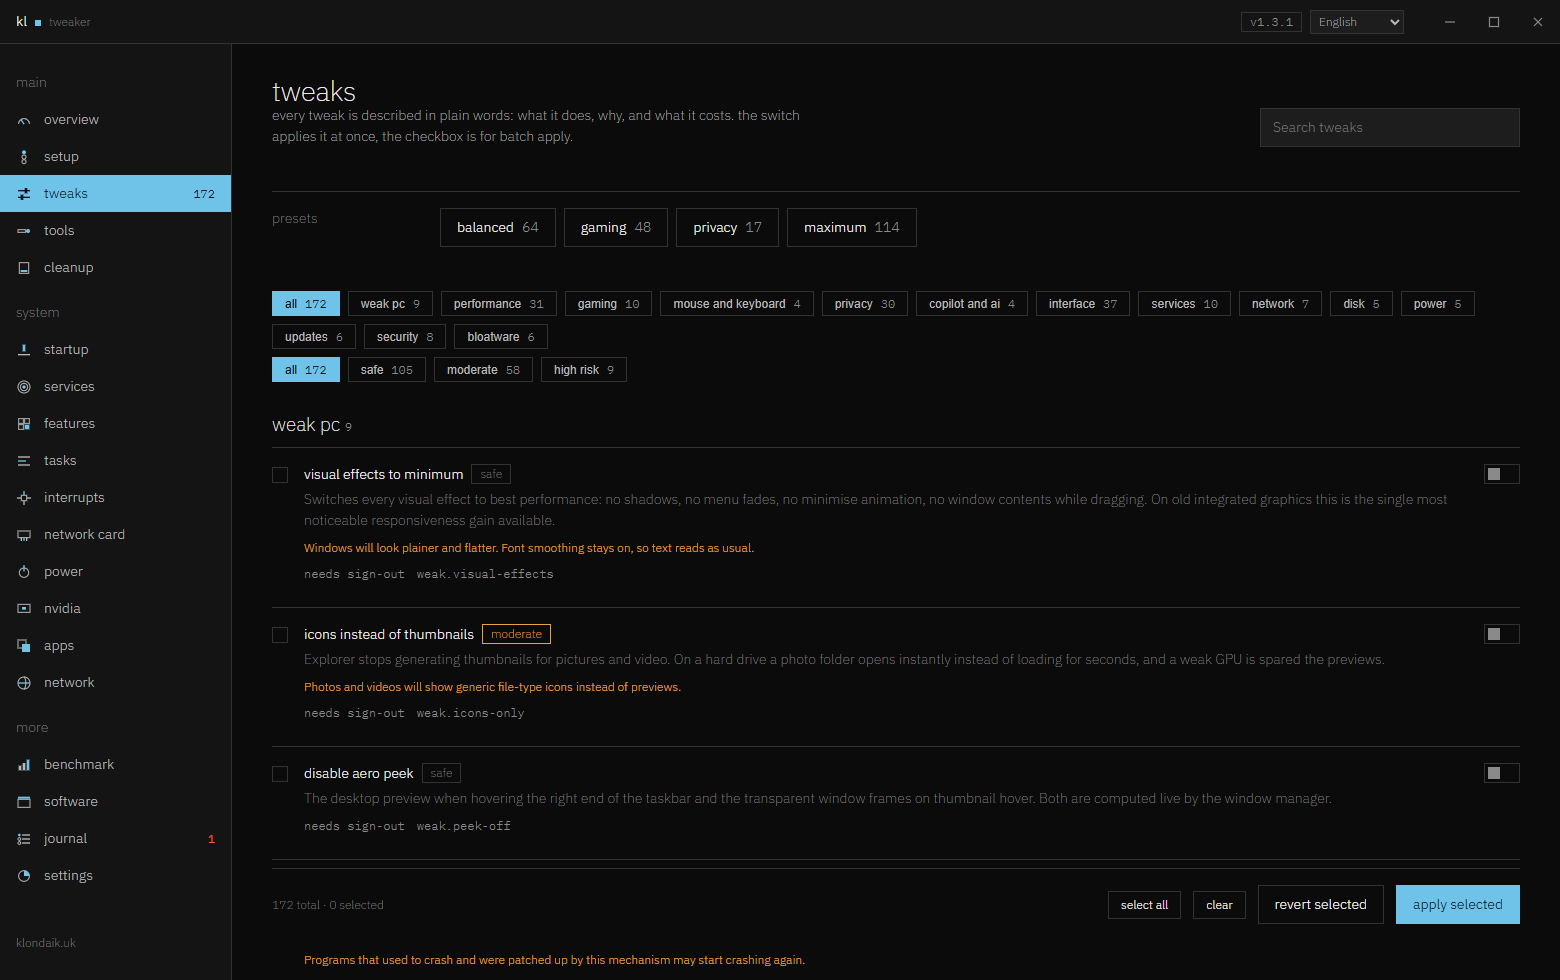
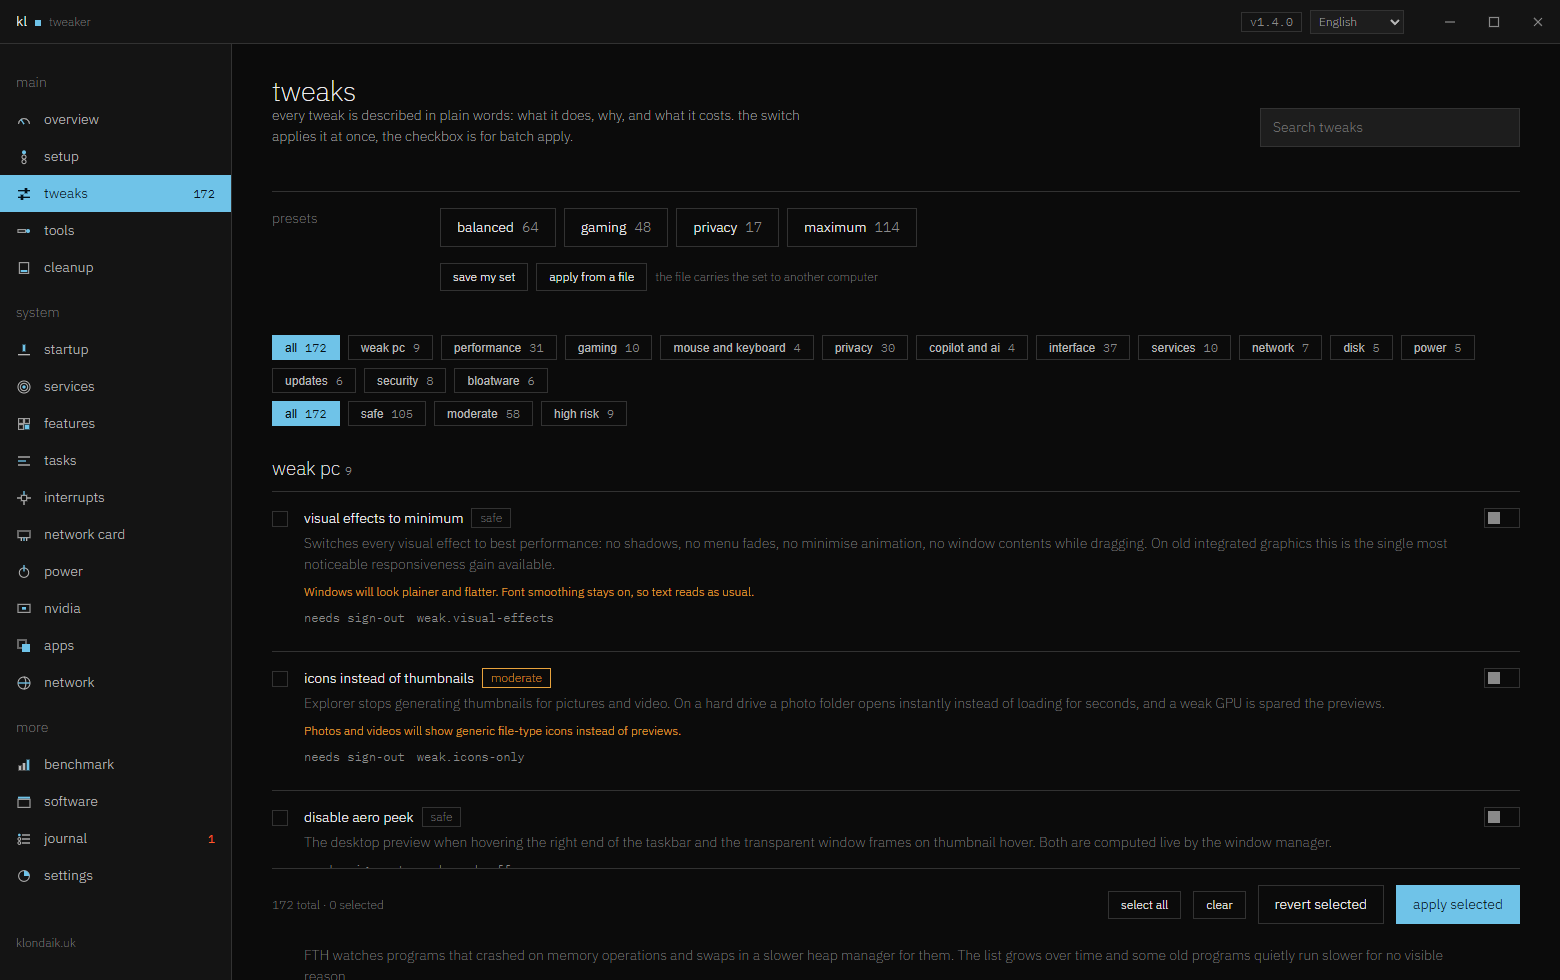
Carry the applied set to another machine in a file
Reinstalling Windows meant walking the catalogue again. The Tweaks tab
now saves everything that is applied and not reverted into a file, and
applies a set back from one through the usual path, tweak by tweak and
through the journal, so every one can still be reverted on its own.

The file holds tweak identifiers and nothing else. What gets written to
the system is decided by the catalogue inside the program, so a file
cannot carry a registry write of its own; one that is not ours, or is
damaged, is refused with a reason. Identifiers the catalogue does not
know are counted and reported rather than dropped in silence.

The set does not carry services, scheduler tasks, Windows features,
power schemes or adapter parameters, and it does not check that the
second machine runs the same Windows build — the build is written into
the file, the decision stays with the reader.

The module test writes a set, reads it back, compares the list tweak by
tweak and then feeds the reader a foreign JSON expecting a refusal. It
refused. 42/42 modules and 29/29 self test on a clean Windows 10.

diff --git a/src/KlondaikTweaker/Assets/wwwroot/js/pages/tweaks.js b/src/KlondaikTweaker/Assets/wwwroot/js/pages/tweaks.js
@@ -32,8 +32,48 @@ export default {
       )
     );
 
-    const presetBox = h('<div class="pane stack"><h2>' + esc(t("tw.presets")) + '</h2><div class="row" data-presets></div></div>');
+    const presetBox = h(
+      '<div class="pane stack"><h2>' + esc(t("tw.presets")) + "</h2>" +
+        '<div class="row" data-presets></div>' +
+        '<div class="row"><button class="btn btn-sm" data-a="saveSet">' + esc(t("tw.setSave")) + "</button>" +
+        '<button class="btn btn-sm" data-a="openSet">' + esc(t("tw.setOpen")) + "</button>" +
+        '<span class="small dim">' + esc(t("tw.setHint")) + "</span></div></div>"
+    );
     el.appendChild(presetBox);
+
+    presetBox.addEventListener("click", async (e) => {
+      const btn = e.target.closest("[data-a]");
+      if (!btn) return;
+      btn.disabled = true;
+      try {
+        if (btn.dataset.a === "saveSet") {
+          const r = await invoke("profile.save");
+          if (r.empty) toast(t("tw.setEmpty"), "warn");
+          else if (r.ok) toast(t("tw.setSaved") + ": " + r.count);
+          else if (!r.cancelled) toast(t("msg.failed") + ": " + (r.error || ""), "err");
+          return;
+        }
+        if (btn.dataset.a === "openSet") {
+          const r = await invoke("profile.open");
+          if (!r.ok) {
+            if (!r.cancelled) toast(t("msg.failed") + ": " + (r.error || ""), "err");
+            return;
+          }
+          if (!r.ids.length) {
+            toast(t("tw.setEmpty"), "warn");
+            return;
+          }
+          if (r.unknown) toast(t("tw.setUnknown") + ": " + r.unknown, "warn");
+          const done = await runTweaks(r.ids, true, catalog);
+          if (done) {
+            await app.refresh();
+            load();
+          }
+        }
+      } finally {
+        btn.disabled = false;
+      }
+    });
 
     const filters = h('<div class="stack-sm"><div class="row" data-cats></div><div class="row" data-risks></div></div>');
     el.appendChild(filters);

diff --git a/docs/mock.js b/docs/mock.js
@@ -113,7 +113,7 @@
 
   const handlers = {
     "app.info": () => ({
-      version: "1.3.1",
+      version: "1.4.0",
       settings,
       facts,
       restore: true,
@@ -303,6 +303,8 @@
       { id: "2", tweakId: "game.gamedvr-off", title: "Отключить Game DVR", driver: false, group: "tweak", time: "2026-09-18 19:04", reverted: false, items: 4, risk: "safe" },
       { id: "3", tweakId: "sec.vbs-off", title: "Отключить виртуализацию безопасности (VBS)", driver: false, group: "tweak", time: "2026-09-18 18:52", reverted: true, items: 4, risk: "extreme" }
     ],
+    "profile.save": () => ({ ok: true, path: "C:\ProgramData\KlondaikTweaker\profiles\klondaik-2026-10-22.json", count: 3 }),
+    "profile.open": () => ({ ok: true, path: "D:\klondaik-2026-10-22.json", ids: ["priv.telemetry-off", "game.gamedvr-off"], unknown: 1, windows: "11 24H2", created: "2026-10-22 20:40" }),
     "journal.verify": () => ({
       total: 3,
       held: 2,
@@ -392,7 +394,7 @@
     "app.quit": () => ({ ok: true }),
     "update.check": () => ({
       available: true,
-      current: "1.3.1",
+      current: "1.4.0",
       latest: "v1.1.0",
       size: 56623104,
       url: "https://github.com/Faliseven/klondaik-tweaker/releases/download/v1.1.0/KlondaikTweaker.exe",

diff --git a/src/KlondaikTweaker/Assets/wwwroot/js/lang/uk.js b/src/KlondaikTweaker/Assets/wwwroot/js/lang/uk.js
@@ -225,6 +225,12 @@ export default {
   "tw.applySel": "Застосувати обрані",
   "tw.revertSel": "Відкотити обрані",
   "tw.presets": "Готові набори",
+  "tw.setSave": "зберегти мій набір",
+  "tw.setOpen": "застосувати з файлу",
+  "tw.setHint": "файл із набором переноситься на інший комп'ютер",
+  "tw.setSaved": "набір збережено",
+  "tw.setEmpty": "застосованих твіків поки немає",
+  "tw.setUnknown": "твіків із файлу немає в каталозі",
   "tw.needRestart": "потрібне перезавантаження",
   "tw.needLogoff": "потрібен перезахід",
   "tw.source": "джерело",

diff --git a/src/KlondaikTweaker/Assets/wwwroot/js/lang/kk.js b/src/KlondaikTweaker/Assets/wwwroot/js/lang/kk.js
@@ -225,6 +225,12 @@ export default {
   "tw.applySel": "Таңдалғандарды қолдану",
   "tw.revertSel": "Таңдалғандарды қайтару",
   "tw.presets": "Дайын жинақтар",
+  "tw.setSave": "менің жинағымды сақтау",
+  "tw.setOpen": "файлдан қолдану",
+  "tw.setHint": "жинақ файлы басқа компьютерге көшіріледі",
+  "tw.setSaved": "жинақ сақталды",
+  "tw.setEmpty": "қолданылған твиктер әзірге жоқ",
+  "tw.setUnknown": "файлдағы твиктер каталогта жоқ",
   "tw.needRestart": "қайта жүктеу керек",
   "tw.needLogoff": "қайта кіру керек",
   "tw.source": "дереккөз",

diff --git a/src/KlondaikTweaker/Assets/wwwroot/js/lang/ru.js b/src/KlondaikTweaker/Assets/wwwroot/js/lang/ru.js
@@ -225,6 +225,12 @@ export default {
   "tw.applySel": "Применить выбранные",
   "tw.revertSel": "Откатить выбранные",
   "tw.presets": "Готовые наборы",
+  "tw.setSave": "сохранить мой набор",
+  "tw.setOpen": "применить из файла",
+  "tw.setHint": "файл с набором переносится на другой компьютер",
+  "tw.setSaved": "набор сохранён",
+  "tw.setEmpty": "применённых твиков пока нет",
+  "tw.setUnknown": "твиков из файла нет в каталоге",
   "tw.needRestart": "нужна перезагрузка",
   "tw.needLogoff": "нужен перезаход",
   "tw.source": "источник",

diff --git a/src/KlondaikTweaker/Assets/wwwroot/js/lang/be.js b/src/KlondaikTweaker/Assets/wwwroot/js/lang/be.js
@@ -225,6 +225,12 @@ export default {
   "tw.applySel": "Ужыць выбраныя",
   "tw.revertSel": "Адкаціць выбраныя",
   "tw.presets": "Гатовыя наборы",
+  "tw.setSave": "захаваць мой набор",
+  "tw.setOpen": "ужыць з файла",
+  "tw.setHint": "файл з наборам пераносіцца на іншы камп'ютар",
+  "tw.setSaved": "набор захаваны",
+  "tw.setEmpty": "ужытых твікаў пакуль няма",
+  "tw.setUnknown": "твікаў з файла няма ў каталогу",
   "tw.needRestart": "патрэбна перазагрузка",
   "tw.needLogoff": "патрэбны перазаход",
   "tw.source": "крыніца",

diff --git a/src/KlondaikTweaker/Assets/wwwroot/js/lang/az.js b/src/KlondaikTweaker/Assets/wwwroot/js/lang/az.js
@@ -225,6 +225,12 @@ export default {
   "tw.applySel": "Seçilmişləri tətbiq et",
   "tw.revertSel": "Seçilmişləri geri qaytar",
   "tw.presets": "Hazır dəstlər",
+  "tw.setSave": "yığımımı saxla",
+  "tw.setOpen": "fayldan tətbiq et",
+  "tw.setHint": "yığım faylı başqa kompüterə köçürülür",
+  "tw.setSaved": "yığım saxlanıldı",
+  "tw.setEmpty": "tətbiq olunan tvaklar hələ yoxdur",
+  "tw.setUnknown": "fayldakı tvaklar kataloqda yoxdur",
   "tw.needRestart": "yenidən başlatma lazımdır",
   "tw.needLogoff": "yenidən giriş lazımdır",
   "tw.source": "mənbə",

diff --git a/src/KlondaikTweaker/Assets/wwwroot/js/lang/es.js b/src/KlondaikTweaker/Assets/wwwroot/js/lang/es.js
@@ -225,6 +225,12 @@ export default {
   "tw.applySel": "Aplicar los seleccionados",
   "tw.revertSel": "Deshacer los seleccionados",
   "tw.presets": "Conjuntos listos",
+  "tw.setSave": "guardar mi conjunto",
+  "tw.setOpen": "aplicar desde un archivo",
+  "tw.setHint": "el archivo lleva el conjunto a otro equipo",
+  "tw.setSaved": "conjunto guardado",
+  "tw.setEmpty": "todavía no hay nada aplicado",
+  "tw.setUnknown": "ajustes del archivo que no están en el catálogo",
   "tw.needRestart": "hace falta reiniciar",
   "tw.needLogoff": "hace falta volver a entrar",
   "tw.source": "fuente",

diff --git a/src/KlondaikTweaker/Assets/wwwroot/js/lang/fr.js b/src/KlondaikTweaker/Assets/wwwroot/js/lang/fr.js
@@ -225,6 +225,12 @@ export default {
   "tw.applySel": "Appliquer la sélection",
   "tw.revertSel": "Annuler la sélection",
   "tw.presets": "Ensembles prêts",
+  "tw.setSave": "enregistrer mon jeu",
+  "tw.setOpen": "appliquer depuis un fichier",
+  "tw.setHint": "le fichier porte le jeu sur un autre ordinateur",
+  "tw.setSaved": "jeu enregistré",
+  "tw.setEmpty": "rien n'est encore appliqué",
+  "tw.setUnknown": "des réglages du fichier manquent au catalogue",
   "tw.needRestart": "redémarrage nécessaire",
   "tw.needLogoff": "reconnexion nécessaire",
   "tw.source": "source",

diff --git a/src/KlondaikTweaker/Assets/wwwroot/js/lang/uz.js b/src/KlondaikTweaker/Assets/wwwroot/js/lang/uz.js
@@ -225,6 +225,12 @@ export default {
   "tw.applySel": "Tanlanganlarni qoʻllash",
   "tw.revertSel": "Tanlanganlarni qaytarish",
   "tw.presets": "Tayyor toʻplamlar",
+  "tw.setSave": "toʻplamimni saqlash",
+  "tw.setOpen": "fayldan qoʻllash",
+  "tw.setHint": "toʻplam fayli boshqa kompyuterga koʻchiriladi",
+  "tw.setSaved": "toʻplam saqlandi",
+  "tw.setEmpty": "qoʻllangan tvaklar hozircha yoʻq",
+  "tw.setUnknown": "fayldagi tvaklar katalogda yoʻq",
   "tw.needRestart": "qayta yuklash kerak",
   "tw.needLogoff": "qayta kirish kerak",
   "tw.source": "manba",

diff --git a/src/KlondaikTweaker/Assets/wwwroot/js/lang/de.js b/src/KlondaikTweaker/Assets/wwwroot/js/lang/de.js
@@ -225,6 +225,12 @@ export default {
   "tw.applySel": "Ausgewählte anwenden",
   "tw.revertSel": "Ausgewählte zurücknehmen",
   "tw.presets": "Fertige Sätze",
+  "tw.setSave": "meinen Satz speichern",
+  "tw.setOpen": "aus Datei anwenden",
+  "tw.setHint": "die Datei trägt den Satz auf einen anderen Rechner",
+  "tw.setSaved": "Satz gespeichert",
+  "tw.setEmpty": "noch ist nichts angewendet",
+  "tw.setUnknown": "Tweaks aus der Datei fehlen im Katalog",
   "tw.needRestart": "Neustart nötig",
   "tw.needLogoff": "neue Anmeldung nötig",
   "tw.source": "Quelle",

diff --git a/src/KlondaikTweaker/Assets/wwwroot/js/lang/pl.js b/src/KlondaikTweaker/Assets/wwwroot/js/lang/pl.js
@@ -225,6 +225,12 @@ export default {
   "tw.applySel": "Zastosuj wybrane",
   "tw.revertSel": "Cofnij wybrane",
   "tw.presets": "Gotowe zestawy",
+  "tw.setSave": "zapisz mój zestaw",
+  "tw.setOpen": "zastosuj z pliku",
+  "tw.setHint": "plik przenosi zestaw na inny komputer",
+  "tw.setSaved": "zestaw zapisany",
+  "tw.setEmpty": "nic jeszcze nie zastosowano",
+  "tw.setUnknown": "tweaków z pliku nie ma w katalogu",
   "tw.needRestart": "wymaga ponownego uruchomienia",
   "tw.needLogoff": "wymaga ponownego zalogowania",
   "tw.source": "źródło",
